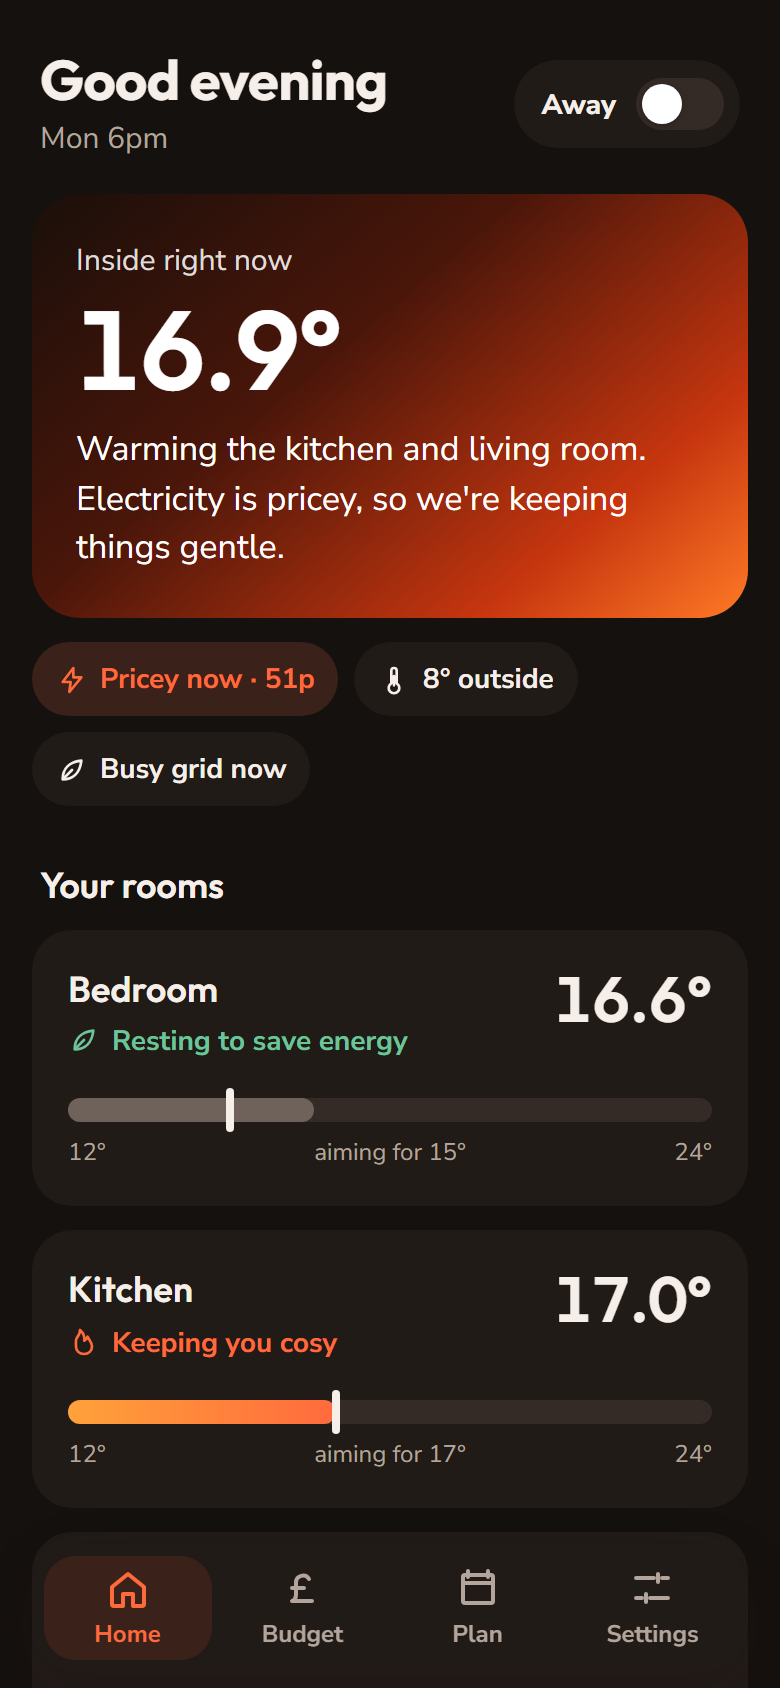
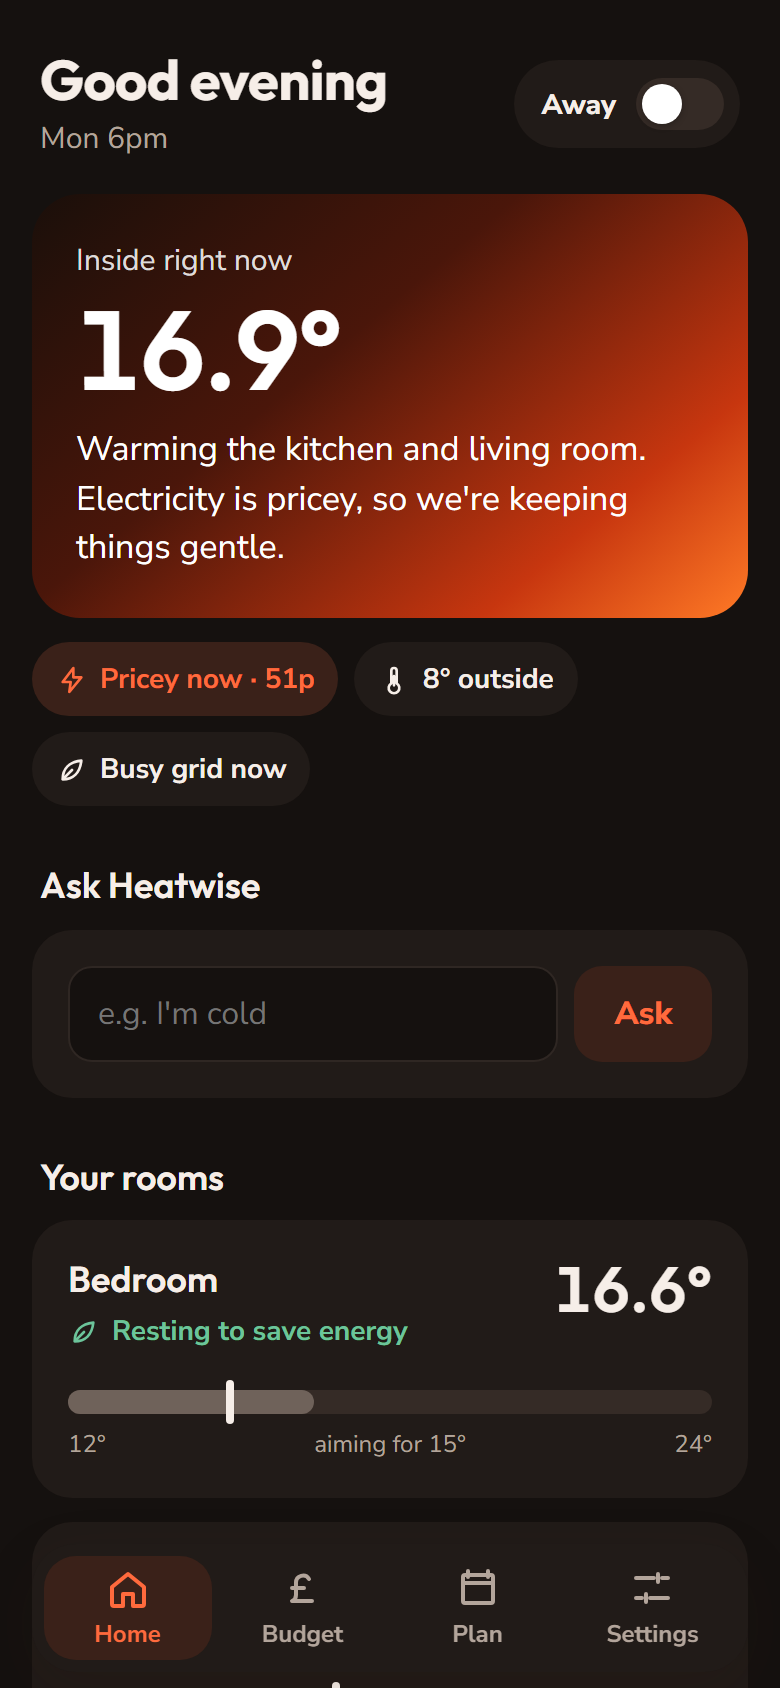
Finish: assistant docs, large-text screenshot, shorter ask hint

diff --git a/app/js/screens/ask.js b/app/js/screens/ask.js
@@ -16,7 +16,7 @@ async function send(text) {
 }
 
 export function askCard() {
-  const input = h("input", { class: "field", placeholder: "Try “I'm cold” or “why is the bedroom cold?”", "aria-label": "Ask Heatwise", maxlength: 500 });
+  const input = h("input", { class: "field", placeholder: "e.g. I'm cold", "aria-label": "Ask Heatwise", maxlength: 500 });
   const go = () => { const t = input.value.trim(); if (t) send(t); };
   input.addEventListener("keydown", e => { if (e.key === "Enter") go(); });
   const answer = last && h("div", { style: "margin-top:12px" },

diff --git a/tools/screenshots.py b/tools/screenshots.py
@@ -39,6 +39,7 @@ SHOTS = {
     "settings-light": "?theme=light&tab=settings",
     "settings-dark": "?theme=dark&tab=settings",
     "room-dark": "?theme=dark&room=living",
+    "home-largetext": "?theme=light&text=xl",
 }
 PORT = 9333
 

diff --git a/docs/DECISIONS.md b/docs/DECISIONS.md
@@ -194,3 +194,12 @@ So Heatwise is **7.8% cheaper with 5.5% less CO₂ at much higher comfort**. The
 | U27 | Two meaning colours: **orange-red = heating, money and actions**; **sage green = saving, cheap, clean**. A separate mid-orange marks "kept mild" and "pricey" in strips. | Colour carries meaning, so it's easy to read. A screenshot review showed "kept mild" and "resting" looked the same, so the mid tone was added. |
 | U28 | Times in 12-hour format ("6pm", "7pm to 11pm") | Friendlier and more natural in everyday British speech than "18:00". |
 | U29 | Tab renamed "Schedule" → **"Plan"**. Settings uses "Look", "Comfy temperature" and "Pretend time". | Shorter, everyday words. |
+
+### Assistant (`heatwise/assistant.py`, `app/js/screens/ask.js`)
+
+| # | Decision | Why |
+|---|---|---|
+| A1 | "Ask Heatwise" turns a message into an answer or **one proposed action** (away, comfort, trim) that the user must tap to confirm | The LLM never controls heating directly. Humans approve changes. |
+| A2 | Two engines: keyword rules (always on) and Claude `claude-opus-5-5` at low effort when `ANTHROPIC_API_KEY` is set. Claude's JSON is validated against the same allow-list; any error, refusal or bad output falls back to rules. | The app works offline and without a key; Claude makes it understand messy phrasing. |
+| A3 | Numbers in answers come only from the engine state passed in, never from the model | No made-up savings or temperatures. |
+| A4 | Input capped at 500 characters; `/api/confirm` re-validates every action | Safe to expose. |

diff --git a/README.md b/README.md
@@ -72,6 +72,8 @@ uvicorn heatwise.app:app --host 127.0.0.1 --port 8000
 
 Four tabs:
 
+- **Ask Heatwise** (on Home): type “I'm cold”, “I'm going away” or “why is the bedroom cold?”. It answers, or proposes a change you confirm with one tap. Uses Claude if `ANTHROPIC_API_KEY` is set, built-in rules otherwise.
+
 - **Home:** the Away switch (every room to 12°C), each room's temperature and status, and the price, outside temperature and grid carbon right now. Tap a room to see its target, **why** it's at that target, and a chart of the next 24 hours.
 - **Budget:** spent this week against your budget, the projection, credit left and CO₂. **Top up** (£5, £10 or £20 through SolvaPay) and a comfort trim stepper.
 - **Plan:** which rooms heat when over the next 24 hours, the cheapest hours, and calendar events with what each one does to the heating.
